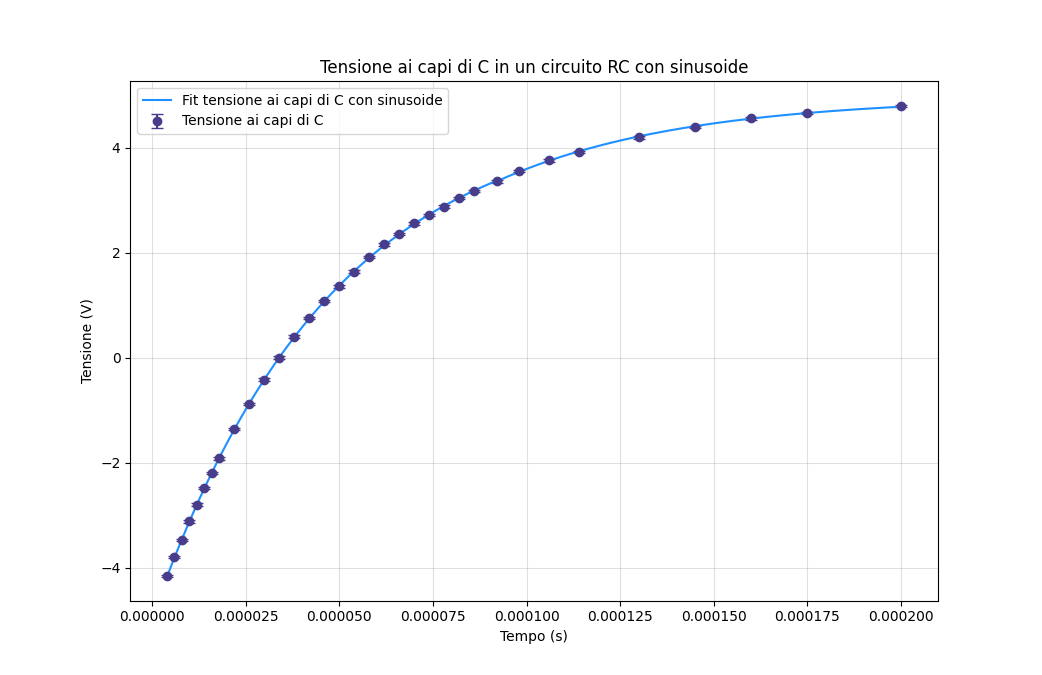
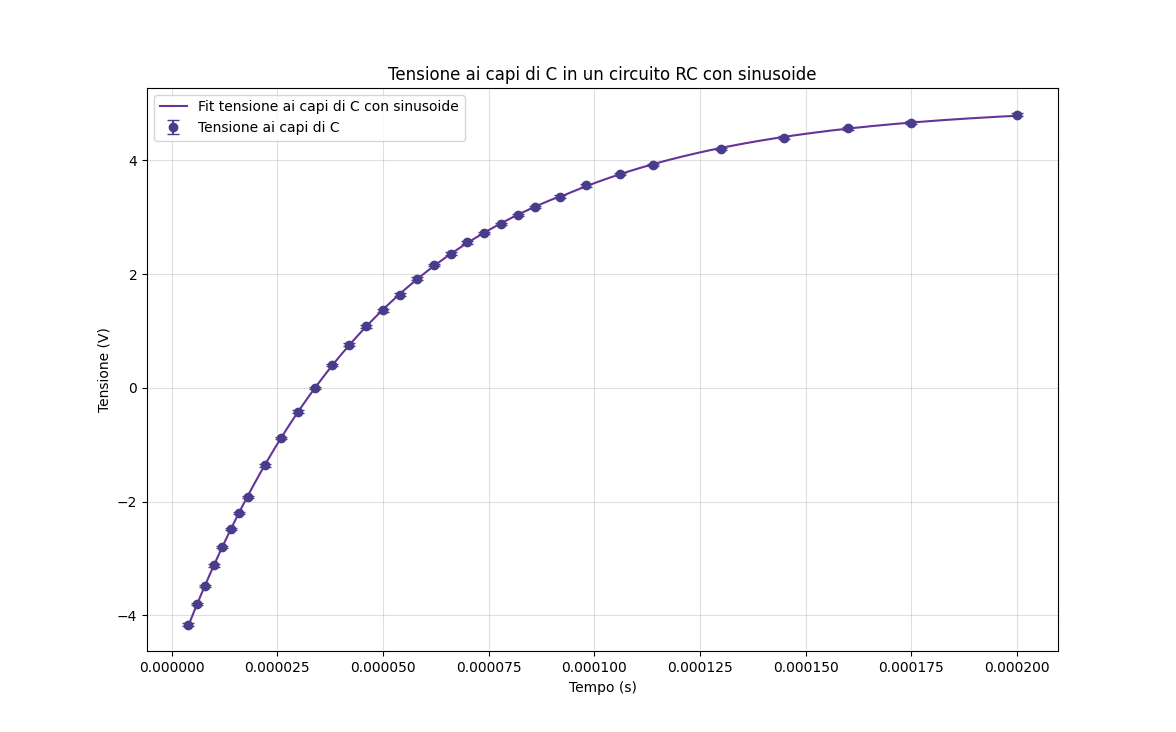
stocaz

diff --git a/RL.py b/RL.py
@@ -235,9 +235,8 @@ if __name__ == "__main__":
     # Grafico della tensione ai capi di R:
     fig, ax = plt.subplots ()
     x_axis_R = np.linspace (min (tempo_R), max (tempo_R), 5000)
-    ax.errorbar (tempo_R, V_R, yerr = sigma_V_R, capsize = 4, color = "darkorange", linestyle = "None", marker = "o", label = "Tensione ai capi di R")
-    ax.plot (x_axis_R, V_R_fit (x_axis_R, V_0_fit_R, L_fit_R, offset_fit_R), label = "Fit tensione ai capi di R", color = "firebrick")
-    ax.vlines (t0_L, ymin = min (V_R), ymax = max (V_R), color = "red", linestyle = "--", label = "t0")
+    ax.errorbar (tempo_R, V_R, yerr = sigma_V_R, capsize = 4, color = "indigo", linestyle = "None", marker = "o", label = "Tensione ai capi di R")
+    ax.plot (x_axis_R, V_R_fit (x_axis_R, V_0_fit_R, L_fit_R, offset_fit_R), label = "Fit tensione ai capi di R", color = "lightseagreen")
     ax.set_xlabel ("Tempo (s)")
     ax.set_ylabel ("Tensione (V)")
     ax.set_title ("Circuito RL: tensione ai capi di R")
@@ -249,7 +248,7 @@ if __name__ == "__main__":
     residui_R = (V_R - V_R_fit (tempo_R, V_0_fit_R, L_fit_R, offset_fit_R)) / sigma_V_R
 
     fig, ax = plt.subplots ()
-    ax.errorbar (tempo_R, residui_R, yerr = np.ones_like (residui_R), capsize = 4, color = "firebrick", linestyle = "None", marker = "^", label = "Residui R")
+    ax.errorbar (tempo_R, residui_R, yerr = np.ones_like (residui_R), capsize = 4, color = "lightseagreen", linestyle = "None", marker = "^", label = "Residui R")
     ax.axhline (0, color = "red", linestyle = "--")
     ax.set_xlabel ("Tempo (s)")
     ax.set_ylabel ("Residui normalizzati")

diff --git a/RC.py b/RC.py
@@ -144,7 +144,7 @@ if __name__ == "__main__":
     x_axis = np.linspace (min (tempo_C), max (tempo_C), 5000)
     x_axis_mask_sin = x_axis < tempo_C[-9]
     ax.errorbar (tempo_C, V_C, yerr = sigma_V_C, fmt = "o", label = "Tensione ai capi di C", capsize = 4, color = "darkslateblue")
-    ax.plot (x_axis, V_C_fit2_mask_sin (x_axis, t_0_fit2, V_0_fit2, RC_fit2, offset_fit2, A_fit2, omega_fit2, phi_fit2, x_axis_mask_sin), color = "dodgerblue", label = "Fit tensione ai capi di C con sinusoide")
+    ax.plot (x_axis, V_C_fit2_mask_sin (x_axis, t_0_fit2, V_0_fit2, RC_fit2, offset_fit2, A_fit2, omega_fit2, phi_fit2, x_axis_mask_sin), color = "rebeccapurple", label = "Fit tensione ai capi di C con sinusoide")
     ax.set_xlabel ("Tempo (s)")
     ax.set_ylabel ("Tensione (V)")
     ax.set_title ("Tensione ai capi di C in un circuito RC con sinusoide")
@@ -155,7 +155,7 @@ if __name__ == "__main__":
     # Residui normalizzati del fit con sinusoide:
     residui_normalizzati2 = (V_C - V_C_fit2_con_mask_sin (tempo_C, t_0_fit2, V_0_fit2, RC_fit2, offset_fit2, A_fit2, omega_fit2, phi_fit2)) / sigma_V_C
     fig, ax = plt.subplots ()
-    ax.errorbar (tempo_C, residui_normalizzati2, yerr = np.ones_like (residui_normalizzati2), fmt = "^", color = "dodgerblue", capsize = 4)
+    ax.errorbar (tempo_C, residui_normalizzati2, yerr = np.ones_like (residui_normalizzati2), fmt = "^", color = "rebeccapurple", capsize = 4)
     ax.axhline (0, color = "red", linestyle = "--")
     ax.set_xlabel ("Tempo (s)")
     ax.set_ylabel ("Residui normalizzati")
